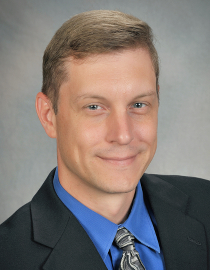
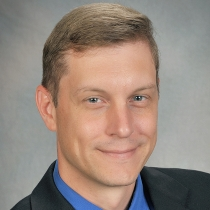
modified:   images/chairs/ScottSchaefer.jpg 	modified:   index.html

diff --git a/index.html b/index.html
@@ -265,7 +265,7 @@
         <div class="row">
 
           <div class="col-sm-3">       
-            <img class="img-responsive" src="images/chairs/HollyRushmeier.jpg" alt="Holly Rushmeier"/>
+            <img class="img-responsive" src="images/chairs/HollyRushmeier.jpg" alt="Holly Rushmeier" width="250" height="250"/>
             <h3>Holly Rushmeier</h3>
             <h4>Yale University, USA</h4>
           </div>
@@ -295,7 +295,7 @@
         <div class="row">
 
           <div class="col-sm-3">       
-            <img class="img-responsive" src="images/chairs/ScottSchaefer.jpg" alt="Scott Schaefer"/>
+            <img class="img-responsive" src="images/chairs/ScottSchaefer.jpg" alt="Scott Schaefer" width="250" height="250"/>
             <h3>Scott Schaefer</h3>
             <h4>Texas A&amp;M University, USA</h4>        
           </div>
@@ -324,7 +324,7 @@
         <div class="row">
 
           <div class="col-sm-3">       
-            <img class="img-responsive" src="images/chairs/AlecJacobson.jpg" alt="Alec Jacobson"/>
+            <img class="img-responsive" src="images/chairs/AlecJacobson.jpg" alt="Alec Jacobson" width="250" height="250"/>
             <h3>Alec Jacobson</h3>
             <h4>Toronto University, Canada</h4>        
           </div>
